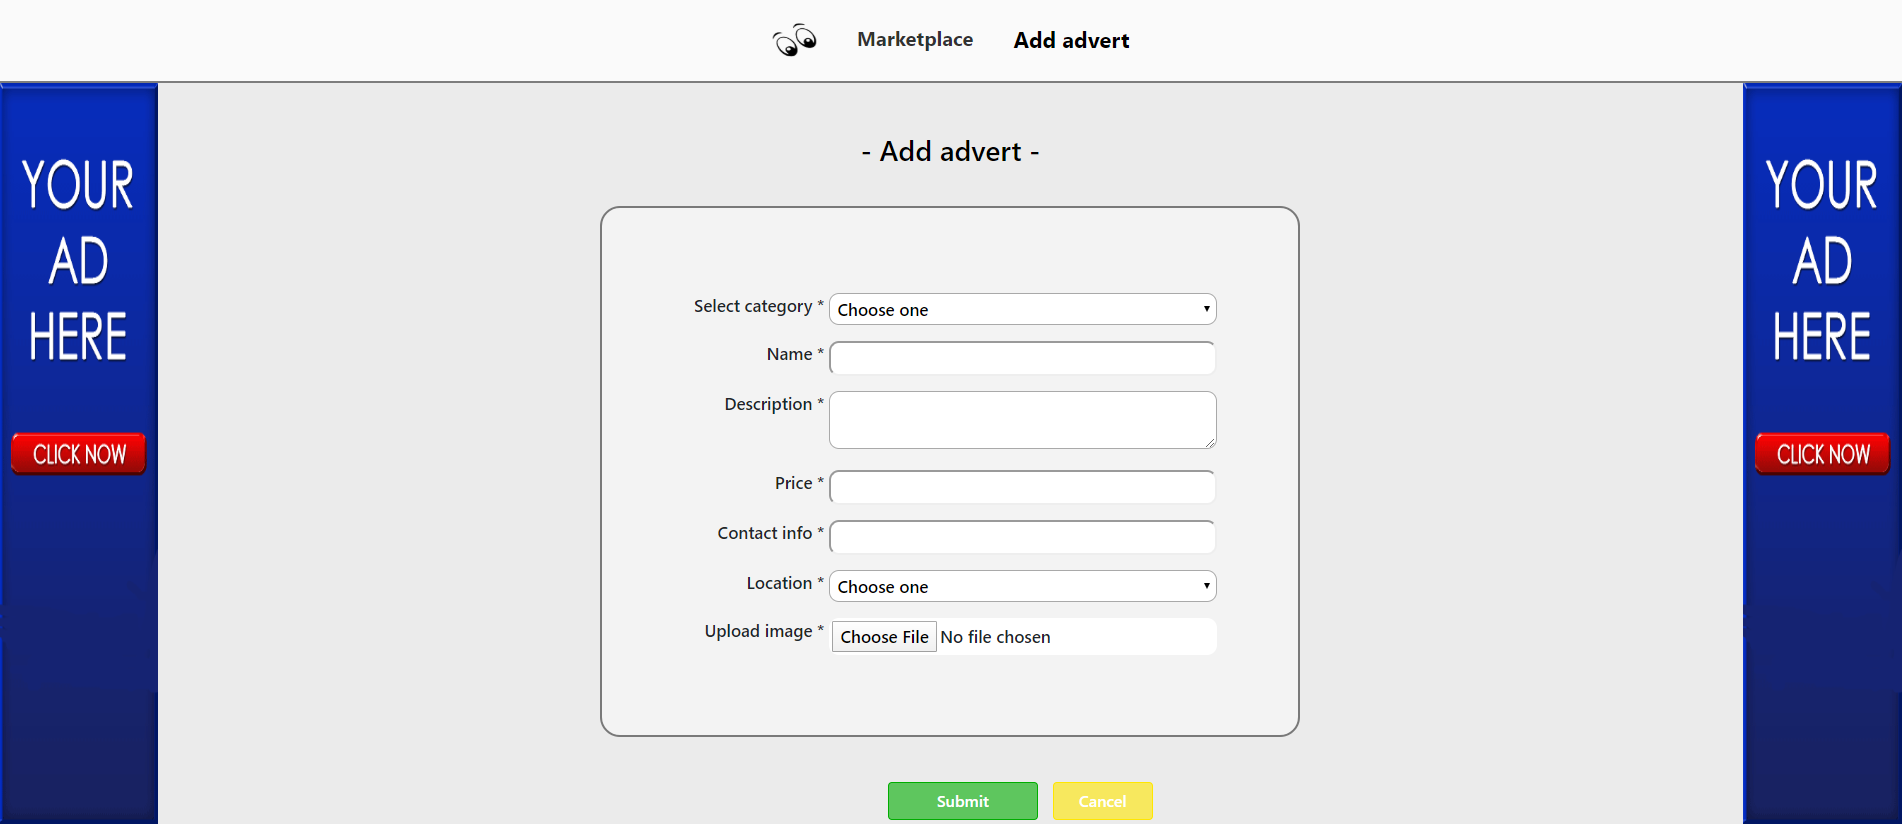
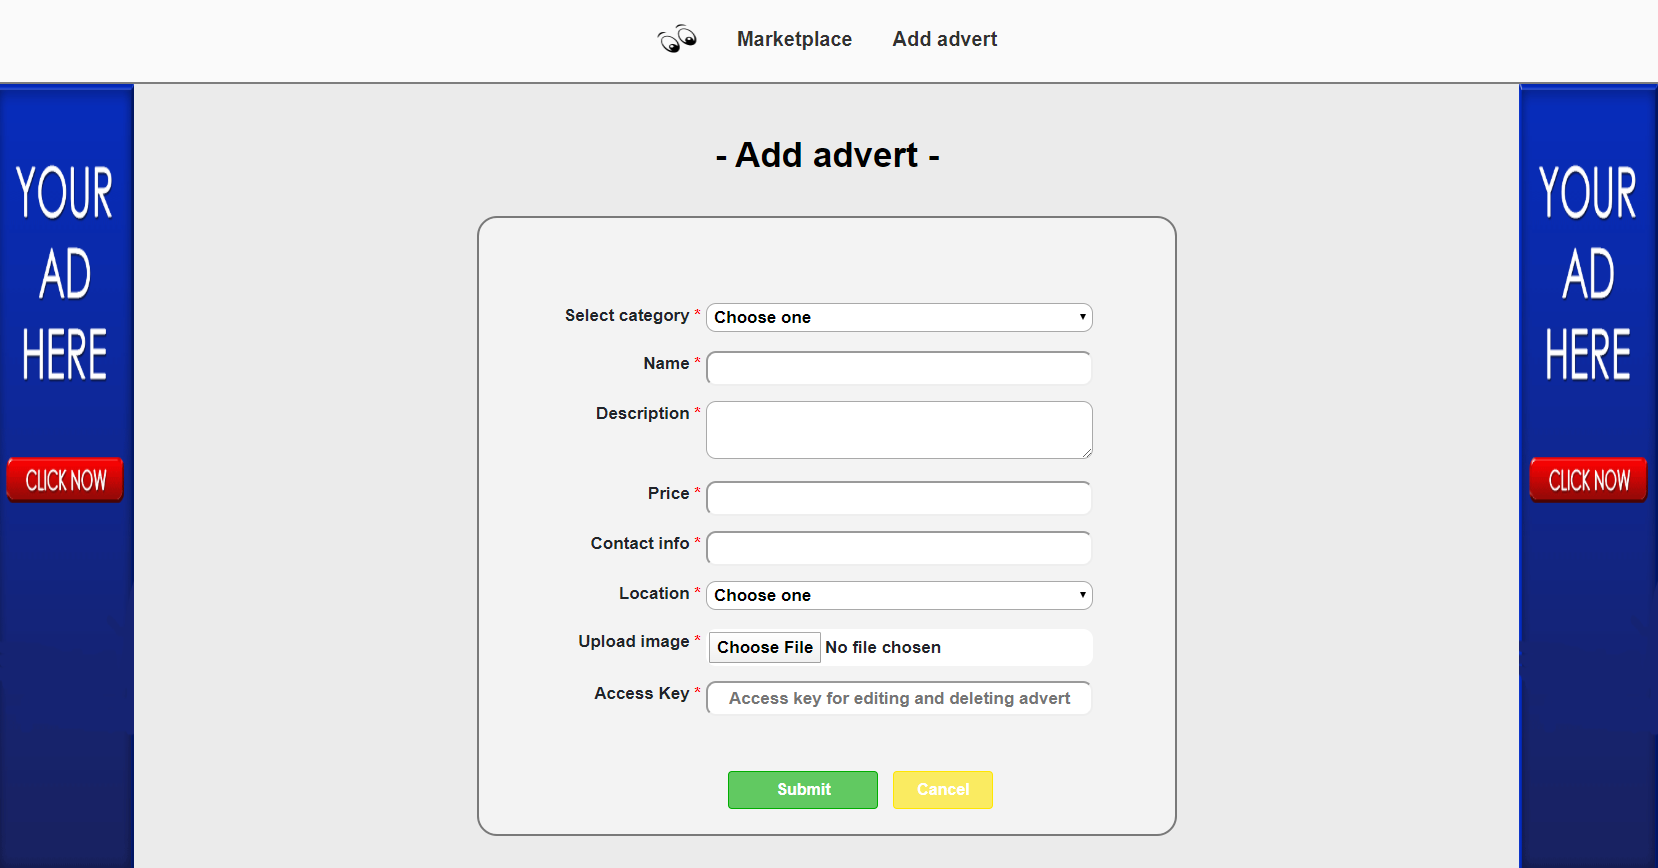
Updated readme.md with access key data.

diff --git a/templates/edit_advert.html b/templates/edit_advert.html
@@ -98,7 +98,7 @@
                                                     <input class="add-inputs" id="access_key" name="access_key"  value="{{advert.key}}" minlength="4" maxlength="15" required>											
 												</div>
                                                 </div>
-                                            <div class="row offset-md-1 justify-content-center">
+                                            <div class="row offset-md-1 justify-content-center submit-row">
 												<button class="btn edit-btn" type="submit" name="action">Save</button>
 											<a href="{{url_for('view_advert', advert_id=advert._id)}}"
 													class="btn btn-cancel">Cancel</a>

diff --git a/static/css/style.css b/static/css/style.css
@@ -198,7 +198,7 @@ body{
 /* ------------ Delete, Edit, Submit, Cancel buttons ------*/
 .delete-btn{
     color: white;
-    width: 100px;
+    width: 150px;
     margin: 5px 0 5px auto;
     font-weight: 600;
     background-color: rgb(255, 81, 0, 0.6);
@@ -252,7 +252,7 @@ body{
 
 /* ------------ Add/Edit advert ---------------------*/
 .add-advert-form{
-    padding: 75px 0;
+    padding: 75px 0 20px;
     margin: 40px auto;
     max-width: 700px;
     text-align: left;
@@ -287,7 +287,9 @@ body{
 .red-star{
     color: red;
 }
-
+.submit-row{
+    padding-top: 45px
+}
 /* --------------- View advert page -------------*/
 .view-advert-form{
     margin: 50px auto;

diff --git a/templates/add_advert.html b/templates/add_advert.html
@@ -83,7 +83,7 @@
 											<input class="add-inputs" id="access_key" name="access_key" minlength="4" maxlength="15" placeholder="Access key for editing and deleting advert" required>
                                     </div>
 										</div>
-											<div class="row offset-md-1 justify-content-center">
+											<div class="row offset-md-1 justify-content-center submit-row">
 												<button type="submit" class="btn btn-submit">Submit</button>
 												<a href="{{url_for('home')}}" class="btn btn-cancel">Cancel</a>
 											</div>

diff --git a/README.md b/README.md
@@ -71,13 +71,13 @@ I choose the name Snoop as in "to snoop around" and all similarities with Snoop 
 </p>
 
 * **change my advert**
-  - user can edit adverts if something changed by pressing `Edit` button.
+  - user can edit adverts if something changed by pressing `Edit` button and entering `Access key`.
 <p align="center">
   <img src="https://raw.githubusercontent.com/romangrubic/database-project/master/static/images/readme/edit-advert.png" width="500" height="300" alt="Edit advert">
 </p>
 
 * **delete my advert**
-  - user can delete adverts if the advert is no longer valid.
+  - user can delete adverts if the advert is no longer valid by pressing `Delete` button and entering `Access key`.
 <p align="center">
   <img src="https://raw.githubusercontent.com/romangrubic/database-project/master/static/images/readme/delete-advert.png" width="500" height="300" alt="Delete advert">
 </p>
@@ -109,7 +109,7 @@ Marketplace button where he can see all the adverts sorted by number of views an
 
 When user goes to Marketplace page, adverts will show up ranked by number of views they have. Also, there are only 12 adverts visible per page and a `Go to top` button at the end of the page. Adverts are presented as cards with a decent size picture and below their name, number of views, location and price. 
 Adverts are clickable on all of their size so user can easily see the whole advert. If user clicks on advert, a new page will open where information will be presented in a bigger format and advert description will also be visible. 
-There are buttons on the end of the page where user can delete the advert or edit it if neccessary. If user presses `Delete` button, a modal will show up asking the user are they sure they want to delete it. If they press `Edit` button, an edit page will open 
+There are buttons on the end of the page where user can delete the advert or edit it if neccessary. If user presses `Delete` button, a modal will show up asking the user for `Access key`. If the `Access key` is same as the advert key, advert is deleted, otherwise modal will close itself. If they press `Edit` button, a modal will show up asking the user for `Access key`. If the `Access key` is same as the advert key, edit page will open
 containing all the data of the advert in database and user can change anty part of it.
 
 User can click on filter button that are visible on all main pages, where he can fast search a specific category of adverts. If he wants to see `Motors`, all adverts in category of Motors will show. Same 
@@ -170,6 +170,9 @@ user can see what it wants, look at adverts that interest it. Users experience o
 * Add advert 
   - User can add advert by typing all the required information that are neccssary to present the advert.
    All fields are required and have to filled by the requirements. By pressing submit button, advert will be saved to database and presented in Marketplace.
+
+* Access key
+  - On adding advert, user will be asked to put in "Access key" which will then be used for deleting or editing advert. It is made as a security measure from unauthorized deleting or editing on the site.
 
 * Adverts cards
   - Once the user searches or visits Marketplace, adverts will be presented in cards. User can see image of the advert and bellow it
@@ -244,6 +247,7 @@ Adverts Collection
 | Location           | location     |  user chooses from a list of choices      | string    |
 | Upload Image       | imageURL     | image, image/*                            | string    |
 | Views              | views        | number                                    | integer   |
+| Key              | key        | text/number, minlength="4", maxlength="15"    | string   |
 
 
 [JSON file showing adverts collection structure](https://github.com/romangrubic/database-project/tree/master/data/database/adverts.json) 
